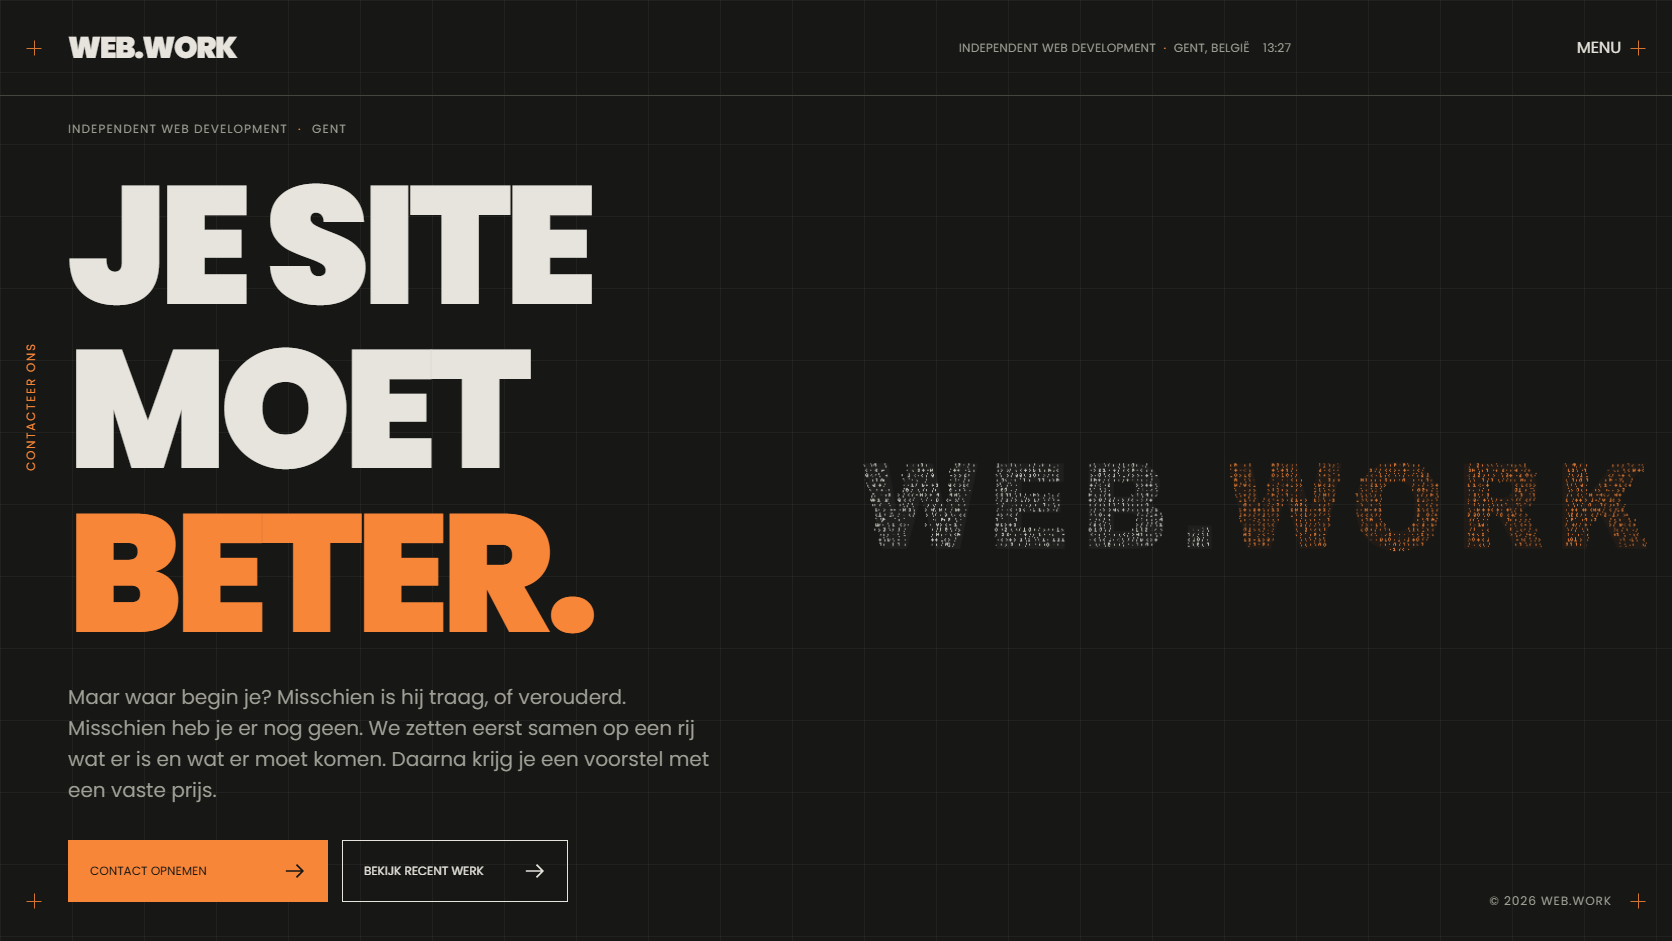
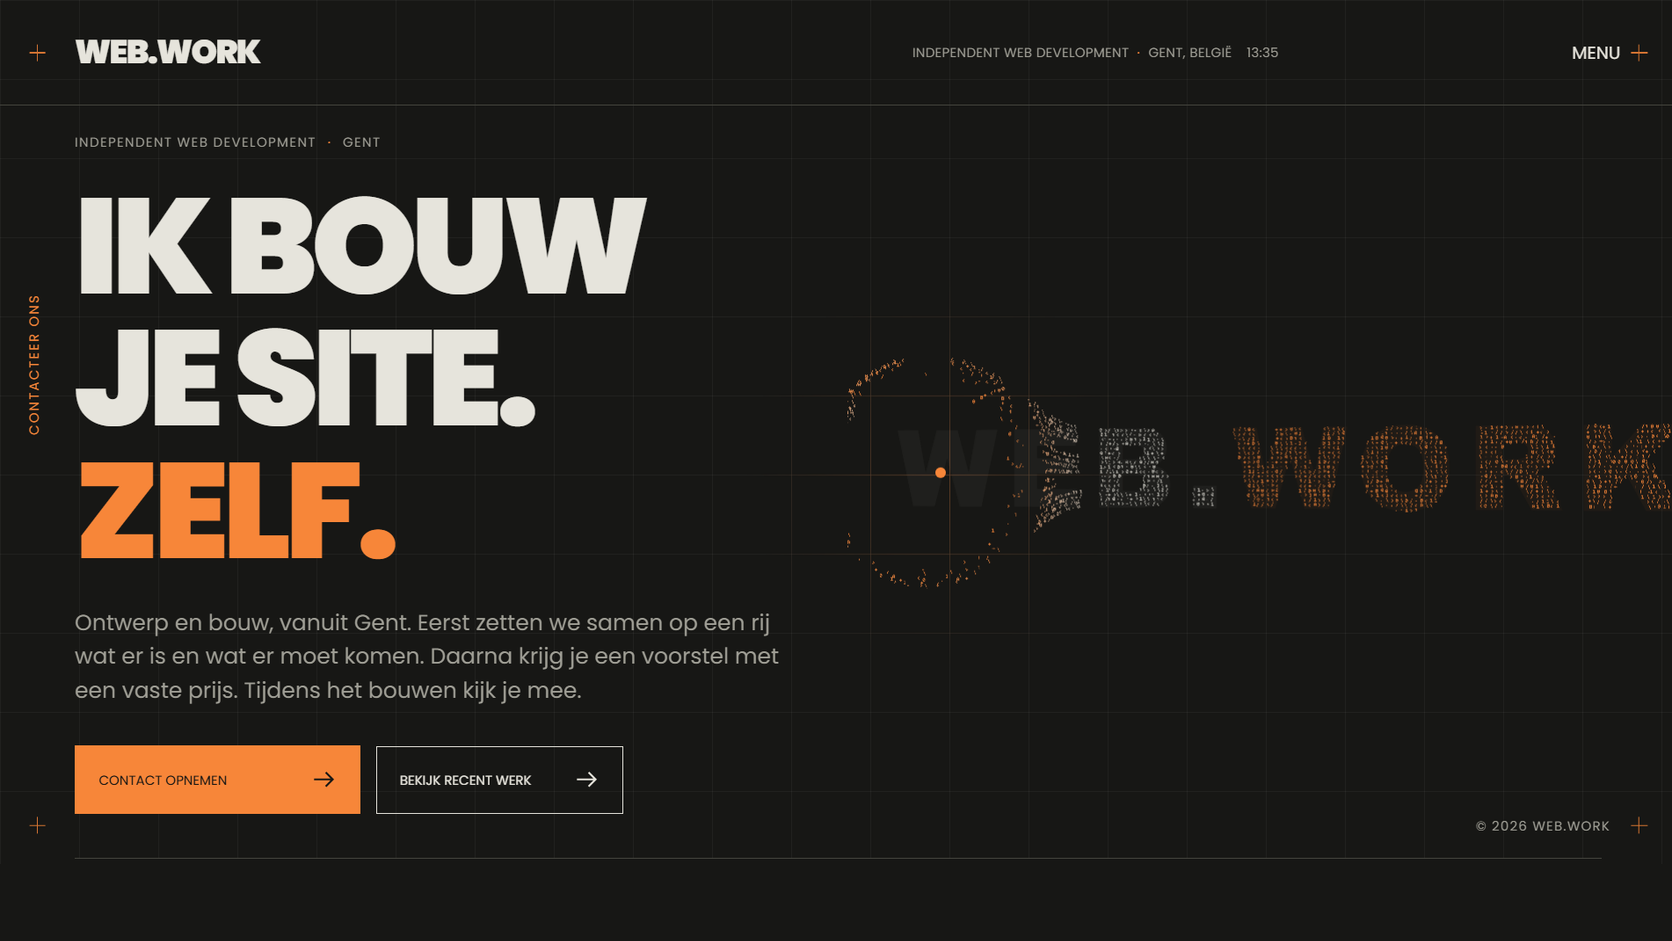
Nieuwe cover voor WEB.WORK, met de huidige kop van de site
Florians eigen schermafbeelding van de homepage ("Ik bouw je site. Zelf.")
vervangt de headless-opname; het citaat in de tegels en de alt van de
cover volgen die kop, in de drie talen.

diff --git a/fr/projets/index.html b/fr/projets/index.html
@@ -395,7 +395,7 @@
             <div class="spotlight__text" data-reveal>
               <span class="byte spotlight__idx">02 / 09</span>
               <h2 class="spotlight__name">WEB.WORK</h2>
-              <p class="spotlight__quote" data-i18n-html="case.web-work.quote">&ldquo;Votre site doit faire mieux. Mais par où commencer ?&rdquo;</p>
+              <p class="spotlight__quote" data-i18n-html="case.web-work.quote">&ldquo;Je construis votre site. Moi-même.&rdquo;</p>
               <p class="spotlight__desc" data-i18n="werk.web-work.desc">Pas un projet client, mais l’activité propre de Florian, cofondateur : du développement web depuis Gand pour des organisations, des écoles et des indépendants, à prix fixe et avec un seul interlocuteur. Le site lui-même est construit comme nous le faisons chez 2X8 : sans framework, rapide, et lisible par les humains comme par les machines.</p>
               <ul class="tags spotlight__meta">
                 <li class="tag" data-i18n-html="tag.ownbusiness">Activité propre</li>

diff --git a/en/work/index.html b/en/work/index.html
@@ -395,7 +395,7 @@
             <div class="spotlight__text" data-reveal>
               <span class="byte spotlight__idx">02 / 09</span>
               <h2 class="spotlight__name">WEB.WORK</h2>
-              <p class="spotlight__quote" data-i18n-html="case.web-work.quote">&ldquo;Your site needs to be better. But where do you start?&rdquo;</p>
+              <p class="spotlight__quote" data-i18n-html="case.web-work.quote">&ldquo;I build your site. Myself.&rdquo;</p>
               <p class="spotlight__desc" data-i18n="werk.web-work.desc">Not a client project, but co-founder Florian's own business: web development from Ghent for organisations, schools and business owners, with a fixed price and one point of contact. The site itself is built the way we do it at 2X8: no framework, fast, and readable by people and machines alike.</p>
               <ul class="tags spotlight__meta">
                 <li class="tag" data-i18n-html="tag.ownbusiness">Own business</li>

diff --git a/werk.html b/werk.html
@@ -402,7 +402,7 @@
             <div class="spotlight__text" data-reveal>
               <span class="byte spotlight__idx">02 / 09</span>
               <h2 class="spotlight__name">WEB.WORK</h2>
-              <p class="spotlight__quote" data-i18n-html="case.web-work.quote">&ldquo;Je site moet beter. Maar waar begin je?&rdquo;</p>
+              <p class="spotlight__quote" data-i18n-html="case.web-work.quote">&ldquo;Ik bouw je site. Zelf.&rdquo;</p>
               <p class="spotlight__desc" data-i18n="werk.web-work.desc">
                 Geen klantenproject, maar de eigen zaak van medeoprichter Florian: webdevelopment uit Gent voor organisaties, scholen en ondernemers, met een vaste prijs en één aanspreekpunt. De site zelf is gebouwd zoals we het bij 2X8 doen: zonder framework, snel, en leesbaar voor mens én machine.
               </p>

diff --git a/fr/index.html b/fr/index.html
@@ -356,7 +356,7 @@
               />
             </a>
             <div class="case-tile__foot">
-              <p class="case-tile__quote" data-i18n-html="case.web-work.quote">&ldquo;Votre site doit faire mieux. Mais par où commencer ?&rdquo;</p>
+              <p class="case-tile__quote" data-i18n-html="case.web-work.quote">&ldquo;Je construis votre site. Moi-même.&rdquo;</p>
               <a class="link" href="/fr/projets/web-work"><span data-i18n="cases.seeCase">Voir le projet</span><span class="btn__arrow" aria-hidden="true">→</span></a>
             </div>
           </article>

diff --git a/en/index.html b/en/index.html
@@ -356,7 +356,7 @@
               />
             </a>
             <div class="case-tile__foot">
-              <p class="case-tile__quote" data-i18n-html="case.web-work.quote">&ldquo;Your site needs to be better. But where do you start?&rdquo;</p>
+              <p class="case-tile__quote" data-i18n-html="case.web-work.quote">&ldquo;I build your site. Myself.&rdquo;</p>
               <a class="link" href="/en/work/web-work"><span data-i18n="cases.seeCase">View case</span><span class="btn__arrow" aria-hidden="true">→</span></a>
             </div>
           </article>

diff --git a/index.html b/index.html
@@ -361,7 +361,7 @@
               />
             </a>
             <div class="case-tile__foot">
-              <p class="case-tile__quote" data-i18n-html="case.web-work.quote">&ldquo;Je site moet beter. Maar waar begin je?&rdquo;</p>
+              <p class="case-tile__quote" data-i18n-html="case.web-work.quote">&ldquo;Ik bouw je site. Zelf.&rdquo;</p>
               <a class="link" href="/work/web-work"><span data-i18n="cases.seeCase">Bekijk case</span><span class="btn__arrow" aria-hidden="true">→</span></a>
             </div>
           </article>

diff --git a/fr/projets/web-work.html b/fr/projets/web-work.html
@@ -353,7 +353,7 @@
           <figure class="case-cover" data-cover>
             <img
               src="/assets/Web-Work/Cover-webwork.png"
-              data-i18n-attr="alt:case.web-work.cover" alt="La page d’accueil de web-work.be : « Je site moet beter. »"
+              data-i18n-attr="alt:case.web-work.cover" alt="La page d’accueil de web-work.be : « Ik bouw je site. Zelf. »"
               width="1672"
               height="941"
               decoding="async"

diff --git a/en/work/web-work.html b/en/work/web-work.html
@@ -353,7 +353,7 @@
           <figure class="case-cover" data-cover>
             <img
               src="/assets/Web-Work/Cover-webwork.png"
-              data-i18n-attr="alt:case.web-work.cover" alt="The web-work.be homepage: ‘Your site needs to be better.’"
+              data-i18n-attr="alt:case.web-work.cover" alt="The web-work.be homepage: ‘I build your site. Myself.’"
               width="1672"
               height="941"
               decoding="async"

diff --git a/work/web-work.html b/work/web-work.html
@@ -356,7 +356,7 @@
           <figure class="case-cover" data-cover>
             <img
               src="../assets/Web-Work/Cover-webwork.png"
-              data-i18n-attr="alt:case.web-work.cover" alt="De homepage van web-work.be: ‘Je site moet beter.’"
+              data-i18n-attr="alt:case.web-work.cover" alt="De homepage van web-work.be: ‘Ik bouw je site. Zelf.’"
               width="1672"
               height="941"
               decoding="async"
